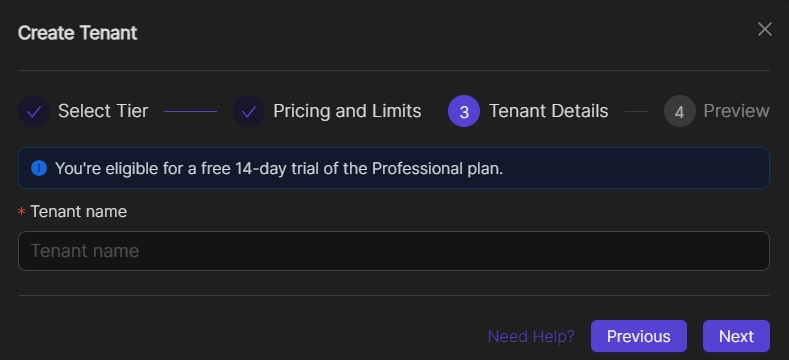
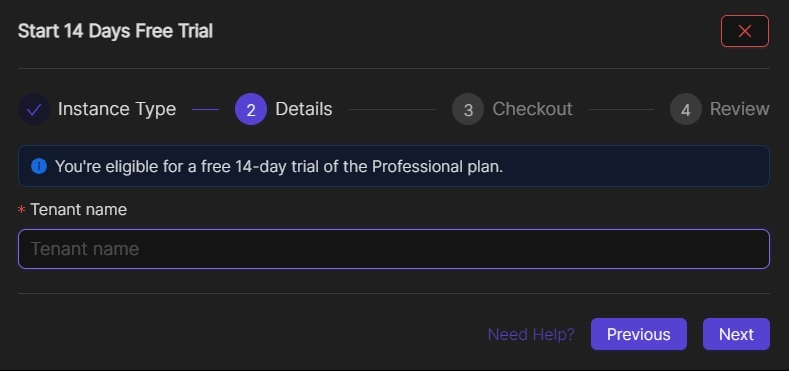
update

diff --git a/pro/pro-setup.rst b/pro/pro-setup.rst
@@ -8,7 +8,7 @@ This guide covers how to get setup with Netmaker Professional. For pricing,visit
 Get a License
 =================================
 
-Visit `<https://app.netmaker.io>`_ to set up a self-hosted instance on the Netmaker SAAS platform. When you first visit the site, you should be prompted to create an account. After you make one, you will be automatically directed to the switch tenant dashboard.
+Visit `<https://app.netmaker.io>`_ to set up a self-hosted instance on the Netmaker SAAS platform. When you first visit the site, you should be prompted to create an account. After you make one, you will be automatically directed to the tenant creation modal. For first time users, Netmaker offers a free 14-day trial of the Professional plan, of either a SaaS tenant or an On-Prem tenant.
 
 .. image:: images/pro-aftersignup.jpg
    :width: 80%
@@ -16,39 +16,8 @@ Visit `<https://app.netmaker.io>`_ to set up a self-hosted instance on the Netma
    :align: center
 
 
-Like many cloud service providers, payment information is required in order to create resources. This can be in a form of Debit/Credit card information or a US Bank account. Click on the "Manage Billing" menu to open the Billing Information form.
 
-.. image:: images/billing-info-form.jpg
-   :width: 80%
-   :alt: Billing Information Form
-   :align: center
-
-
-Click on the "Manage payment details" button in order to add your payment method. Once done, click on the "Return to Netmaker, Inc" link.
-   
-.. image:: images/payment-method-form.jpg
-   :width: 80%
-   :alt: Payment Method Form
-   :align: center
-
-
-For first time users, Netmaker offers a free 14-day trial of the Professional plan, of either a SaaS tenant or an On-Prem tenant.
-
-.. image:: images/14-day-trial.jpg
-   :width: 80%
-   :alt: 14-day trial
-   :align: center
-
-
-Click on the "Create an On-Prem tenant" option and a modal will pop up. You can toggle between a Monthly or a Yearly subscription after your trial period ends. Once your done, click on the Next button.
-
-.. image:: images/pricing-and-limits.jpg
-   :width: 80%
-   :alt: Pricing and Limits
-   :align: center
-
-
-Input the name of your new tenant then click on the Next button.
+Click on the "Create an On-Prem tenant" option. Input the name of your new tenant then click on the Next button.  
 
 .. image:: images/tenant-name-form.jpg
    :width: 80%
@@ -56,7 +25,23 @@ Input the name of your new tenant then click on the Next button.
    :align: center
 
 
-Review your new tenant details then click on the Create Tenant button.
+You can toggle between a Monthly or a Yearly subscription plan for when your trial period ends. Click on the "Tier breakdown" button to view the details of the plan. Once your done, click on the "Add Payment Details in Stripe" button.
+
+.. image:: images/pricing-and-limits.jpg
+   :width: 80%
+   :alt: Pricing and Limits
+   :align: center
+
+
+Like many cloud service providers, payment information is required in order to create resources even during trial period. This can be in a form of Debit/Credit card information or a US Bank account. Fillout the form and then click on the "Add" button.
+
+.. image:: images/payment-method-form.jpg
+   :width: 80%
+   :alt: Payment Method Form
+   :align: center
+
+
+You should automatically be redirected back to the tenant creation modal. Review your new tenant details then click on the Create Tenant button.
 
 .. image:: images/review-tenant-details-form.jpg
    :width: 80%
@@ -76,9 +61,9 @@ Once created, your new tenant should show up in the Tenants page. Click on the M
 Setup your server
 =================================
 
-You will need the Licence Key and Tenant ID which you will find on the Settings tab.
+You will need the Licence Key and Tenant ID which you can find on the Settings tab.
 
-.. image:: images/pro-license-key2.png
+.. image:: images/pro-license-key2.jpg
     :width: 80%
     :alt: License keys
     :align: center
